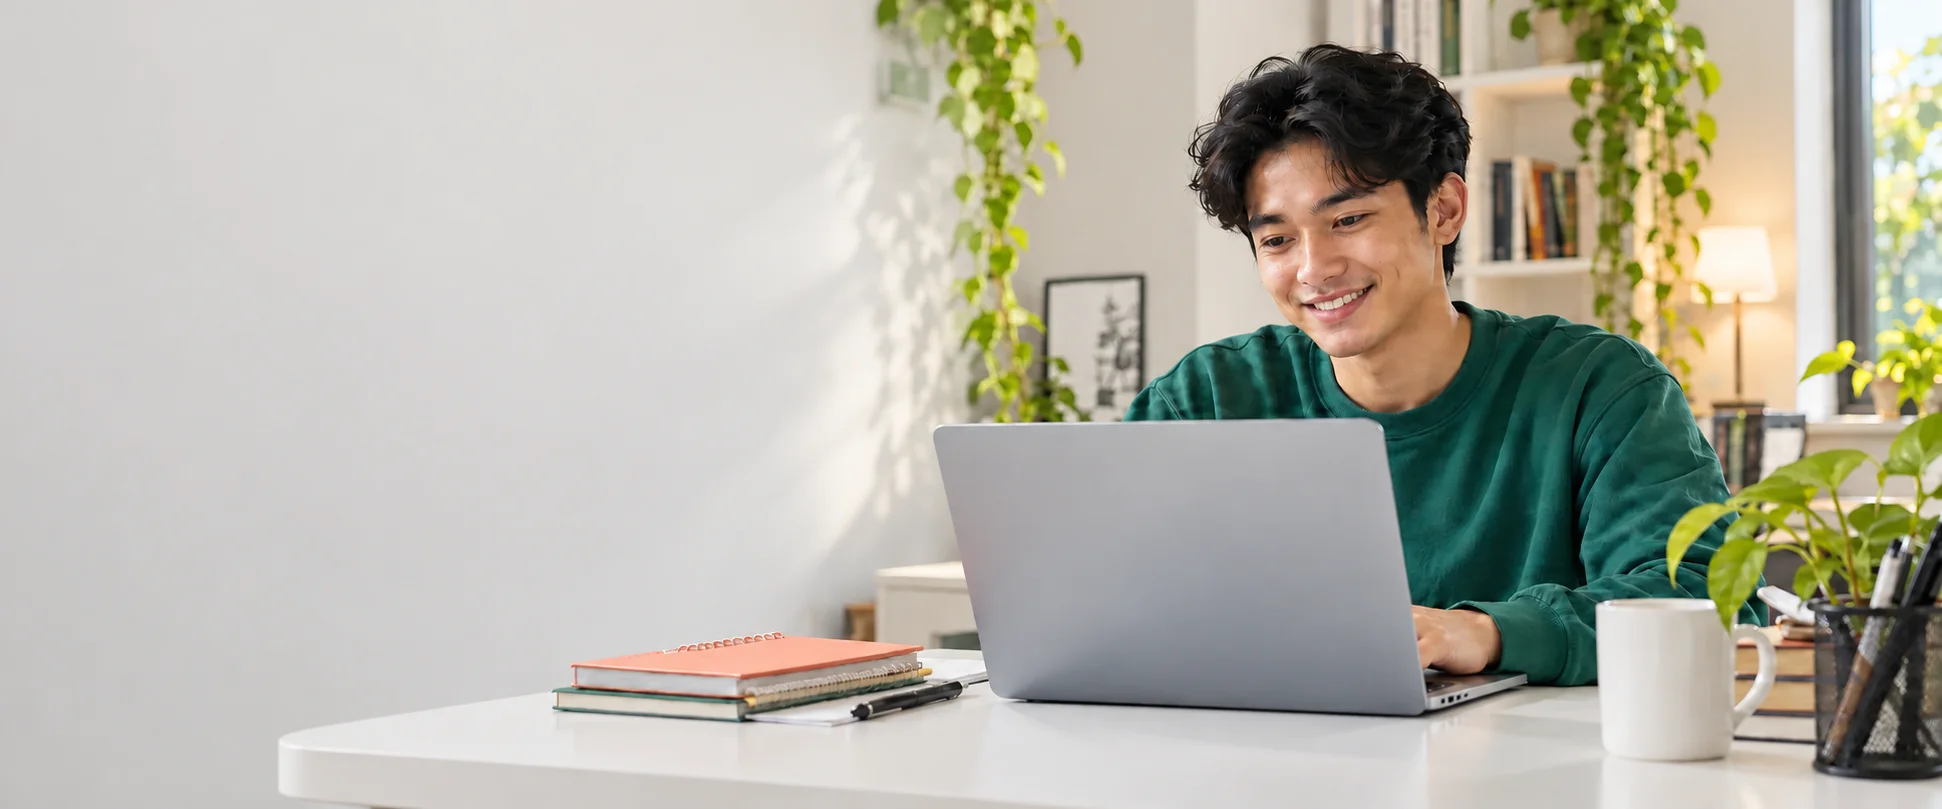
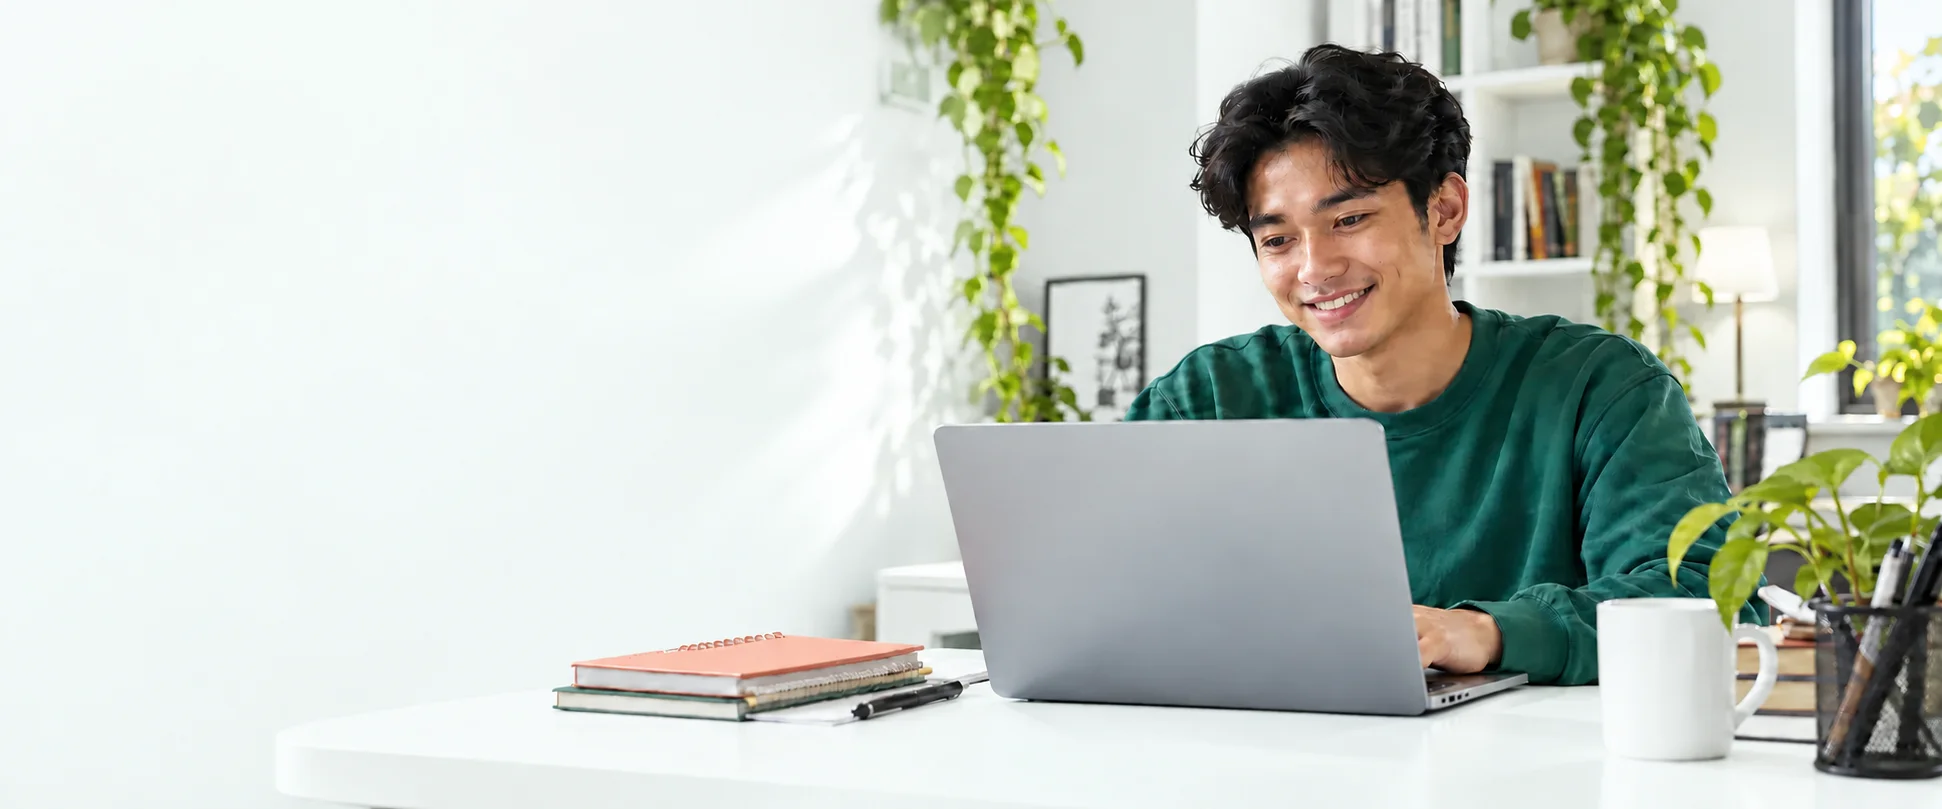
Match light hero whites to the website mint-white palette

diff --git a/index.html b/index.html
@@ -5516,7 +5516,7 @@
 
         <div id="tab-beranda" class="tab-content active">
             <section class="home-banner" aria-labelledby="home-banner-title" draggable="true">
-                <img class="home-banner__photo home-banner__photo--light" src="assets/hero-jokiin-study.webp?v=20261003-matched" alt="" width="1942" height="809" fetchpriority="high">
+                <img class="home-banner__photo home-banner__photo--light" src="assets/hero-jokiin-study.webp?v=20261003-mintwhite" alt="" width="1942" height="809" fetchpriority="high">
                 <img class="home-banner__photo home-banner__photo--dark" src="assets/hero-jokiin-study-dark.webp" alt="" width="1942" height="809">
                 <div class="home-banner__content">
                     <h1 id="home-banner-title">Tugas Kamu,<br>Serahkan ke <span>JOKI.IN</span></h1>
